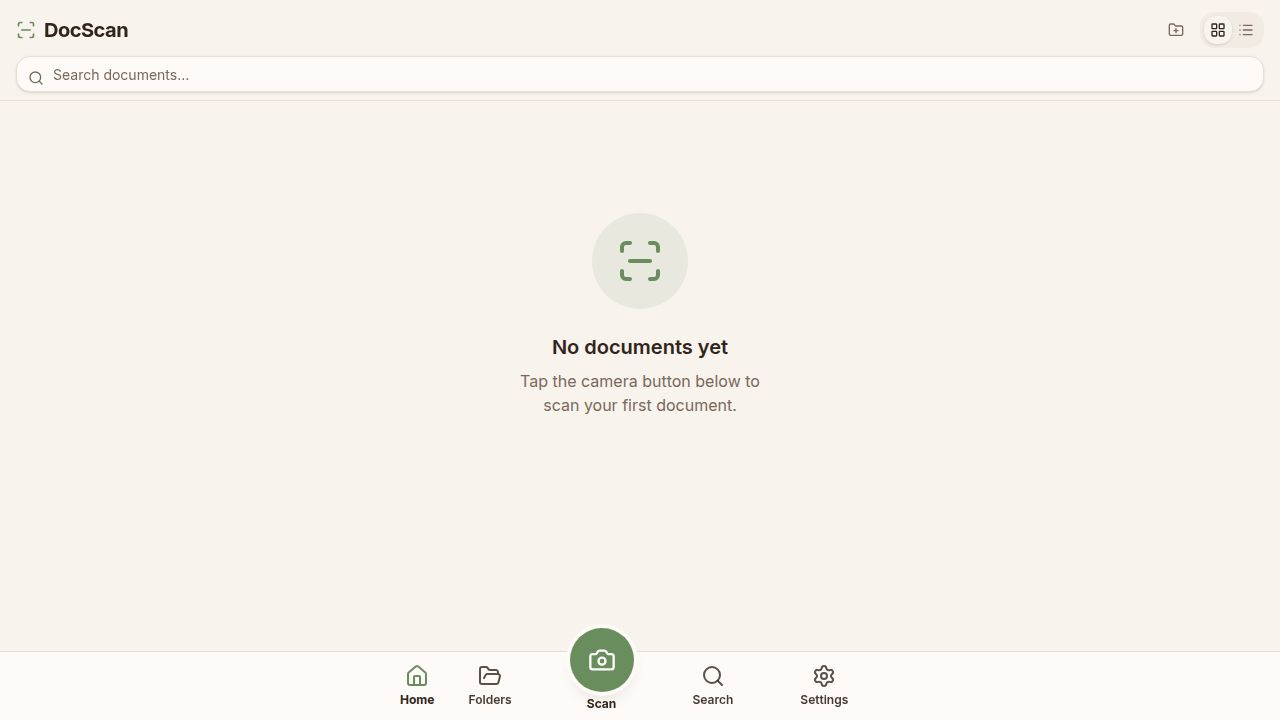
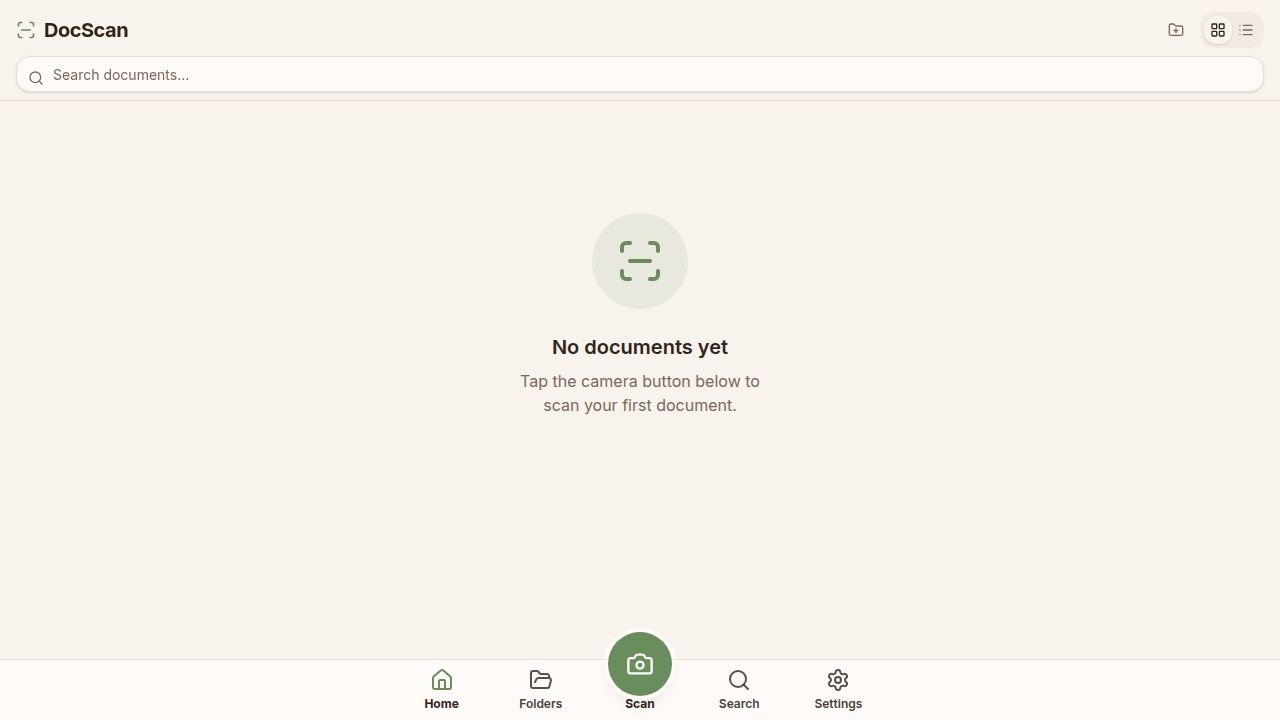
Improve watermark preview clarity and auto-edge detection accuracy
Fix blurry watermark previews by scaling canvas rendering to the device pixel ratio. Enhance auto-edge detection by normalizing image dimensions, trying multiple Canny thresholds, and selecting the most accurate quadrilateral contour to ensure reliable document cropping.

Replit-Commit-Author: Agent
Replit-Commit-Session-Id: 97fac022-96f6-4a72-8d3a-8d865552ca78
Replit-Commit-Checkpoint-Type: full_checkpoint
Replit-Commit-Event-Id: cce4c754-7678-40fd-8984-2eb2ad28d0d9
Replit-Commit-Screenshot-Url: https://storage.googleapis.com/screenshot-production-us-central1/8b8f3483-9ca0-481b-b661-d6f474a7d04e/97fac022-96f6-4a72-8d3a-8d865552ca78/zpjow1U
Replit-Helium-Checkpoint-Created: true

Changed region(s): [[0.3125, 0.8556, 0.5938, 1.0], [0.625, 0.9167, 0.6875, 1.0]]

diff --git a/artifacts/doc-scanner/src/lib/opencv.ts b/artifacts/doc-scanner/src/lib/opencv.ts
@@ -1,67 +1,130 @@
 import { Corner } from "./types";
 
+/**
+ * Runs a single edge-detection + contour pass at a given Canny threshold pair
+ * over an already-prepared grayscale/blurred Mat, returning the best 4-point
+ * quadrilateral candidate (by area) found, if any.
+ */
+function findQuadCandidate(
+  cv: any,
+  blurred: any,
+  frameW: number,
+  frameH: number,
+  low: number,
+  high: number
+): { points: number[]; area: number } | null {
+  const edges = new cv.Mat();
+  const contours = new cv.MatVector();
+  const hierarchy = new cv.Mat();
+  let best: { points: number[]; area: number } | null = null;
+
+  try {
+    cv.Canny(blurred, edges, low, high);
+
+    const kernel = cv.getStructuringElement(cv.MORPH_RECT, new cv.Size(5, 5));
+    cv.dilate(edges, edges, kernel);
+    cv.erode(edges, edges, kernel);
+    kernel.delete();
+
+    cv.findContours(edges, contours, hierarchy, cv.RETR_LIST, cv.CHAIN_APPROX_SIMPLE);
+
+    const frameArea = frameW * frameH;
+    const minArea = frameArea * 0.15;
+    const maxArea = frameArea * 0.98;
+
+    for (let i = 0; i < contours.size(); i++) {
+      const contour = contours.get(i);
+      const area = cv.contourArea(contour);
+      if (area < minArea || area > maxArea) {
+        continue;
+      }
+      const peri = cv.arcLength(contour, true);
+      const approx = new cv.Mat();
+      cv.approxPolyDP(contour, approx, 0.02 * peri, true);
+
+      if (approx.rows === 4 && cv.isContourConvex(approx) && (!best || area > best.area)) {
+        best = { points: Array.from(approx.data32S as Int32Array), area };
+      }
+      approx.delete();
+    }
+
+    return best;
+  } finally {
+    edges.delete();
+    contours.delete();
+    hierarchy.delete();
+  }
+}
+
 export async function detectDocumentCorners(canvas: HTMLCanvasElement): Promise<Corner[]> {
   const cv = (window as any).cv;
   if (!cv) {
     throw new Error("OpenCV not loaded yet.");
   }
   const src = cv.imread(canvas);
+
+  // Work on a downscaled copy for detection: normalizes edge-detection
+  // thresholds across wildly different camera/upload resolutions and is
+  // both faster and more reliable than running Canny on a huge source image.
+  const DETECT_MAX_DIM = 900;
+  const scale = Math.min(1, DETECT_MAX_DIM / Math.max(src.cols, src.rows));
+  const work = new cv.Mat();
+  if (scale < 1) {
+    cv.resize(src, work, new cv.Size(Math.round(src.cols * scale), Math.round(src.rows * scale)), 0, 0, cv.INTER_AREA);
+  } else {
+    src.copyTo(work);
+  }
+
   const gray = new cv.Mat();
   const blurred = new cv.Mat();
-  const edges = new cv.Mat();
-  const contours = new cv.MatVector();
-  const hierarchy = new cv.Mat();
 
   try {
-    cv.cvtColor(src, gray, cv.COLOR_RGBA2GRAY);
+    cv.cvtColor(work, gray, cv.COLOR_RGBA2GRAY);
     cv.GaussianBlur(gray, blurred, new cv.Size(5, 5), 0);
-    cv.Canny(blurred, edges, 75, 200);
-    
-    // Dilate to connect edges
-    const kernel = cv.getStructuringElement(cv.MORPH_RECT, new cv.Size(3, 3));
-    cv.dilate(edges, edges, kernel);
-    kernel.delete();
-    
-    cv.findContours(edges, contours, hierarchy, cv.RETR_EXTERNAL, cv.CHAIN_APPROX_SIMPLE);
-    
-    let bestContour = null;
-    let maxArea = 0;
-    
-    for (let i = 0; i < contours.size(); i++) {
-      const contour = contours.get(i);
-      const area = cv.contourArea(contour);
-      const peri = cv.arcLength(contour, true);
-      const approx = new cv.Mat();
-      cv.approxPolyDP(contour, approx, 0.02 * peri, true);
-      
-      if (approx.rows === 4 && area > maxArea && area > (src.cols * src.rows * 0.1)) {
-        maxArea = area;
-        if (bestContour) bestContour.delete();
-        bestContour = approx;
-      } else {
-        approx.delete();
+
+    // Try a few threshold pairs — a single fixed pair often fails on documents
+    // with low contrast against their background (e.g. white paper on a light
+    // table) or busy backgrounds; scanning a small set is cheap and much more
+    // robust in practice.
+    const thresholdPairs: [number, number][] = [
+      [75, 200],
+      [30, 120],
+      [50, 150],
+      [20, 80],
+    ];
+
+    let best: { points: number[]; area: number } | null = null;
+    for (const [low, high] of thresholdPairs) {
+      const candidate = findQuadCandidate(cv, blurred, work.cols, work.rows, low, high);
+      if (candidate && (!best || candidate.area > best.area)) {
+        best = candidate;
       }
     }
-    
-    if (bestContour) {
-      const corners = [];
+
+    if (best) {
+      const corners: Corner[] = [];
+      const invScale = 1 / scale;
       for (let i = 0; i < 4; i++) {
-        corners.push({ x: bestContour.data32S[i * 2], y: bestContour.data32S[i * 2 + 1] });
+        corners.push({
+          x: best.points[i * 2] * invScale,
+          y: best.points[i * 2 + 1] * invScale,
+        });
       }
-      bestContour.delete();
       return orderCorners(corners); // tl, tr, br, bl
     }
-    
-    // Fallback: full image corners
+
+    // Fallback: inset guess so the user still has draggable corners to adjust,
+    // rather than a full-bleed box that's rarely correct.
+    const marginX = src.cols * 0.06;
+    const marginY = src.rows * 0.06;
     return [
-      { x: 10, y: 10 },
-      { x: src.cols - 10, y: 10 },
-      { x: src.cols - 10, y: src.rows - 10 },
-      { x: 10, y: src.rows - 10 },
+      { x: marginX, y: marginY },
+      { x: src.cols - marginX, y: marginY },
+      { x: src.cols - marginX, y: src.rows - marginY },
+      { x: marginX, y: src.rows - marginY },
     ];
   } finally {
-    src.delete(); gray.delete(); blurred.delete(); edges.delete();
-    contours.delete(); hierarchy.delete();
+    src.delete(); work.delete(); gray.delete(); blurred.delete();
   }
 }
 

diff --git a/artifacts/doc-scanner/src/lib/watermark.ts b/artifacts/doc-scanner/src/lib/watermark.ts
@@ -95,8 +95,19 @@ export function drawWatermarkPreview(
   const img = new Image();
   img.onload = () => {
     const ctx = canvas.getContext('2d')!;
+
+    // Render at devicePixelRatio so the preview stays crisp on retina/high-DPI
+    // screens instead of being upscaled from a low-res backing store.
+    const dpr = window.devicePixelRatio || 1;
+    const cssW = parseFloat(canvas.style.width || `${canvas.width}`);
+    const cssH = parseFloat(canvas.style.height || `${canvas.height}`);
+
+    ctx.setTransform(1, 0, 0, 1, 0, 0);
     ctx.clearRect(0, 0, canvas.width, canvas.height);
-    ctx.drawImage(img, 0, 0, canvas.width, canvas.height);
+    ctx.setTransform(dpr, 0, 0, dpr, 0, 0);
+    ctx.imageSmoothingEnabled = true;
+    ctx.imageSmoothingQuality = 'high';
+    ctx.drawImage(img, 0, 0, cssW, cssH);
 
     // Scale settings for the preview canvas size
     const scaled: WatermarkSettings = {
@@ -104,7 +115,7 @@ export function drawWatermarkPreview(
       fontSize: Math.max(8, settings.fontSize * previewFontScale),
       margin: settings.margin * previewFontScale,
     };
-    drawWatermarkOnContext(ctx, canvas.width, canvas.height, scaled);
+    drawWatermarkOnContext(ctx, cssW, cssH, scaled);
   };
   img.src = previewImageUrl;
 }

diff --git a/artifacts/doc-scanner/src/components/WatermarkModal.tsx b/artifacts/doc-scanner/src/components/WatermarkModal.tsx
@@ -72,11 +72,21 @@ export function WatermarkModal({ open, previewImageUrl, onApply, onCancel }: Wat
       if (!canvas) return;
       const maxW = 320;
       const scale = Math.min(1, maxW / img.naturalWidth);
-      canvas.width = img.naturalWidth * scale;
-      canvas.height = img.naturalHeight * scale;
+      const cssW = img.naturalWidth * scale;
+      const cssH = img.naturalHeight * scale;
+      const dpr = window.devicePixelRatio || 1;
+
+      // Backing store at devicePixelRatio resolution, CSS size stays at the
+      // (smaller) display size — keeps the live preview sharp on retina screens.
+      canvas.width = Math.round(cssW * dpr);
+      canvas.height = Math.round(cssH * dpr);
+      canvas.style.width = `${cssW}px`;
+      canvas.style.height = `${cssH}px`;
       previewScale.current = scale;
+      updatePreview();
     };
     img.src = previewImageUrl;
+    // eslint-disable-next-line react-hooks/exhaustive-deps
   }, [open, previewImageUrl]);
 
   // Redraw whenever settings change